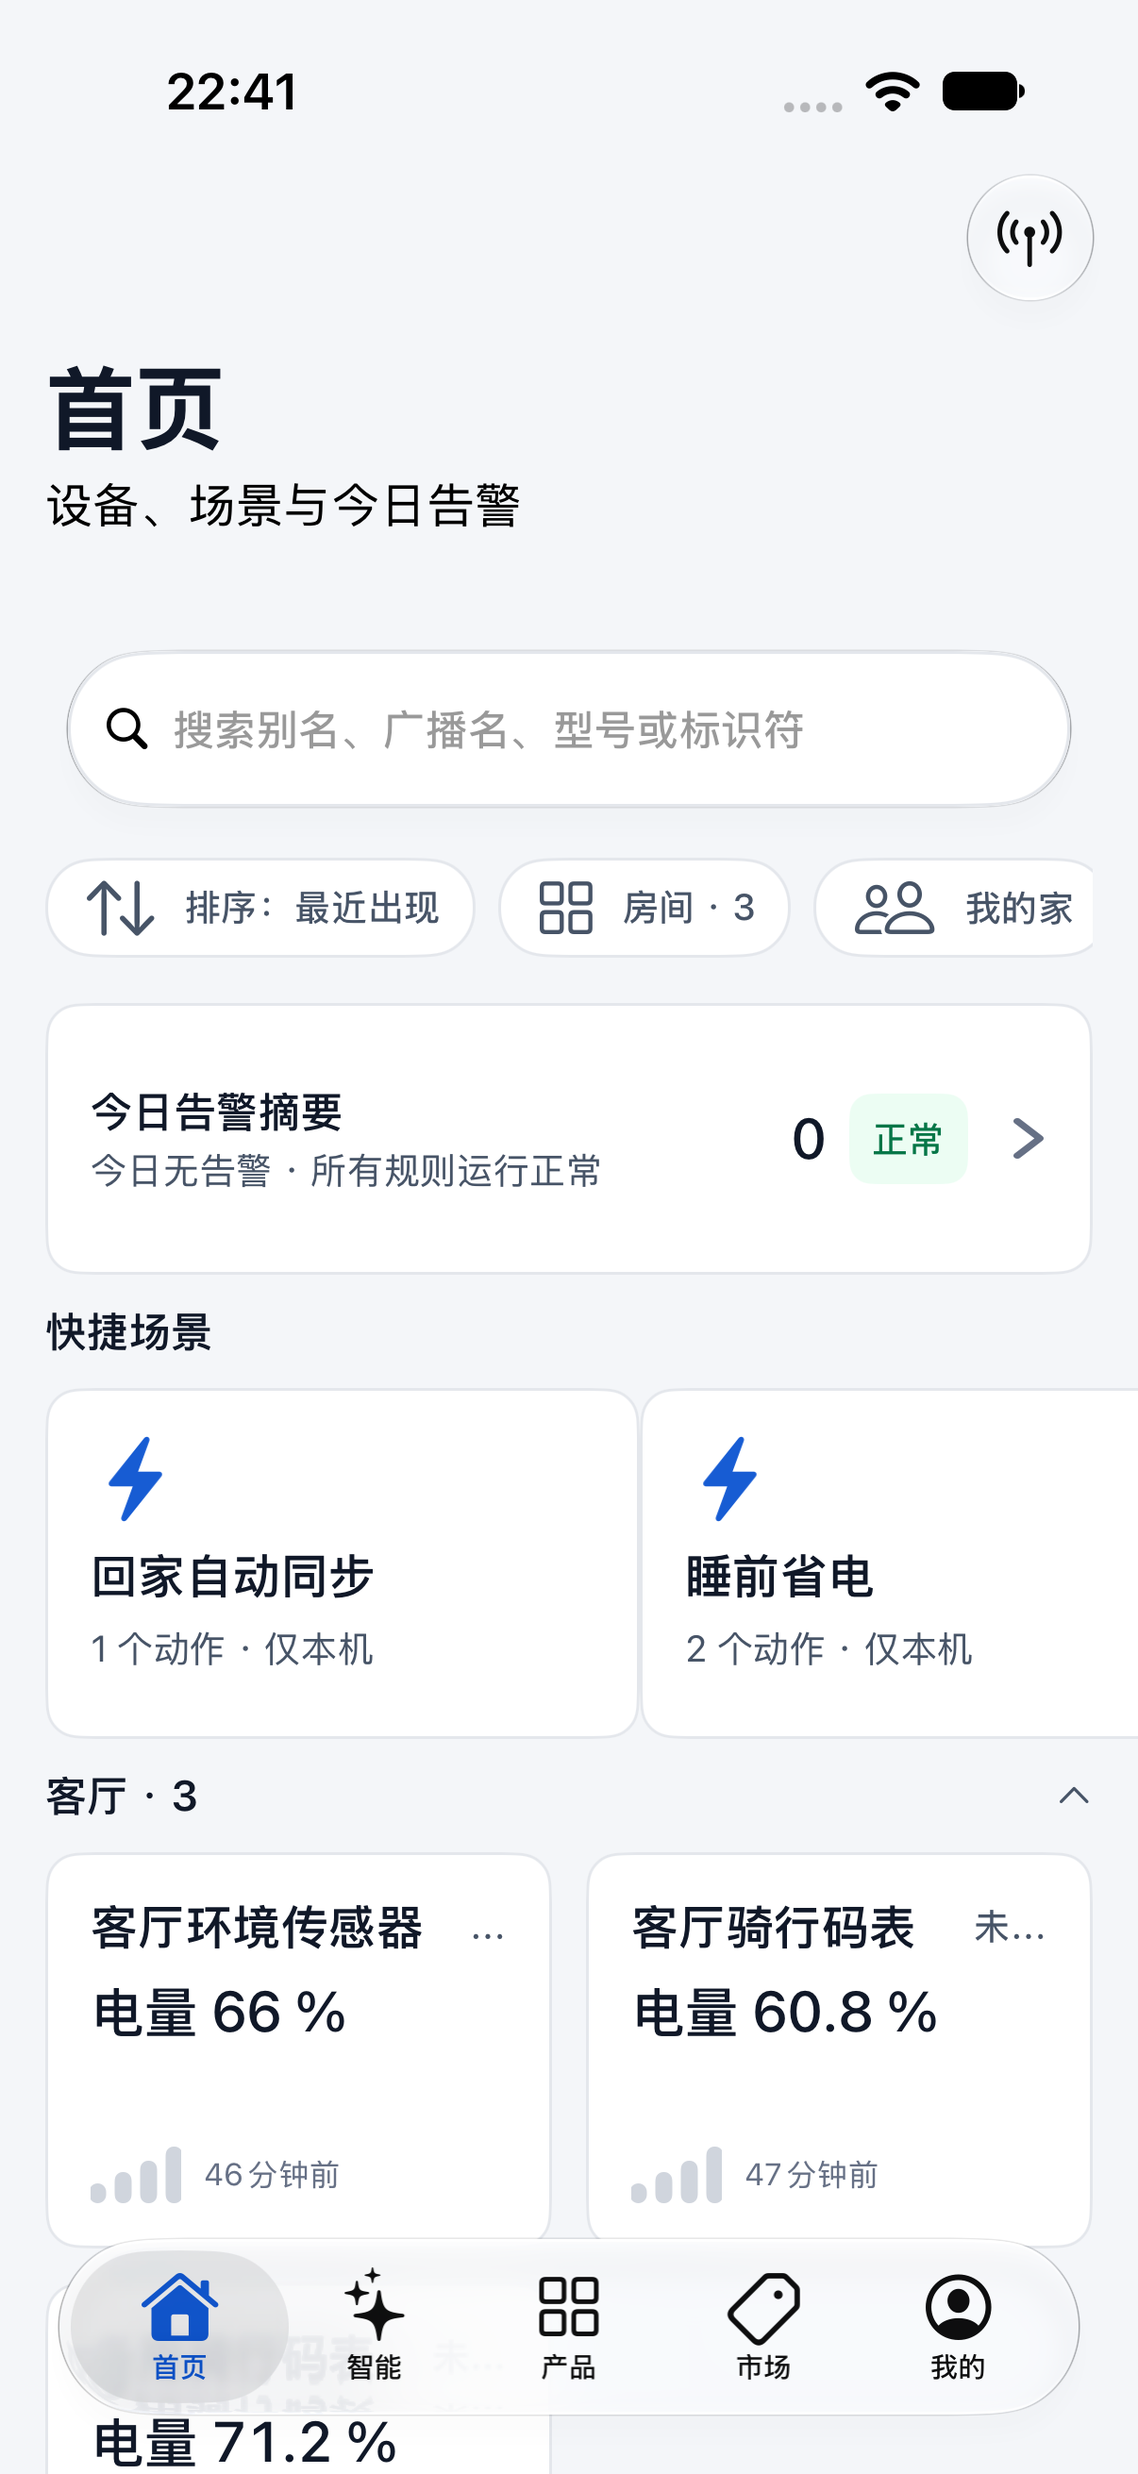
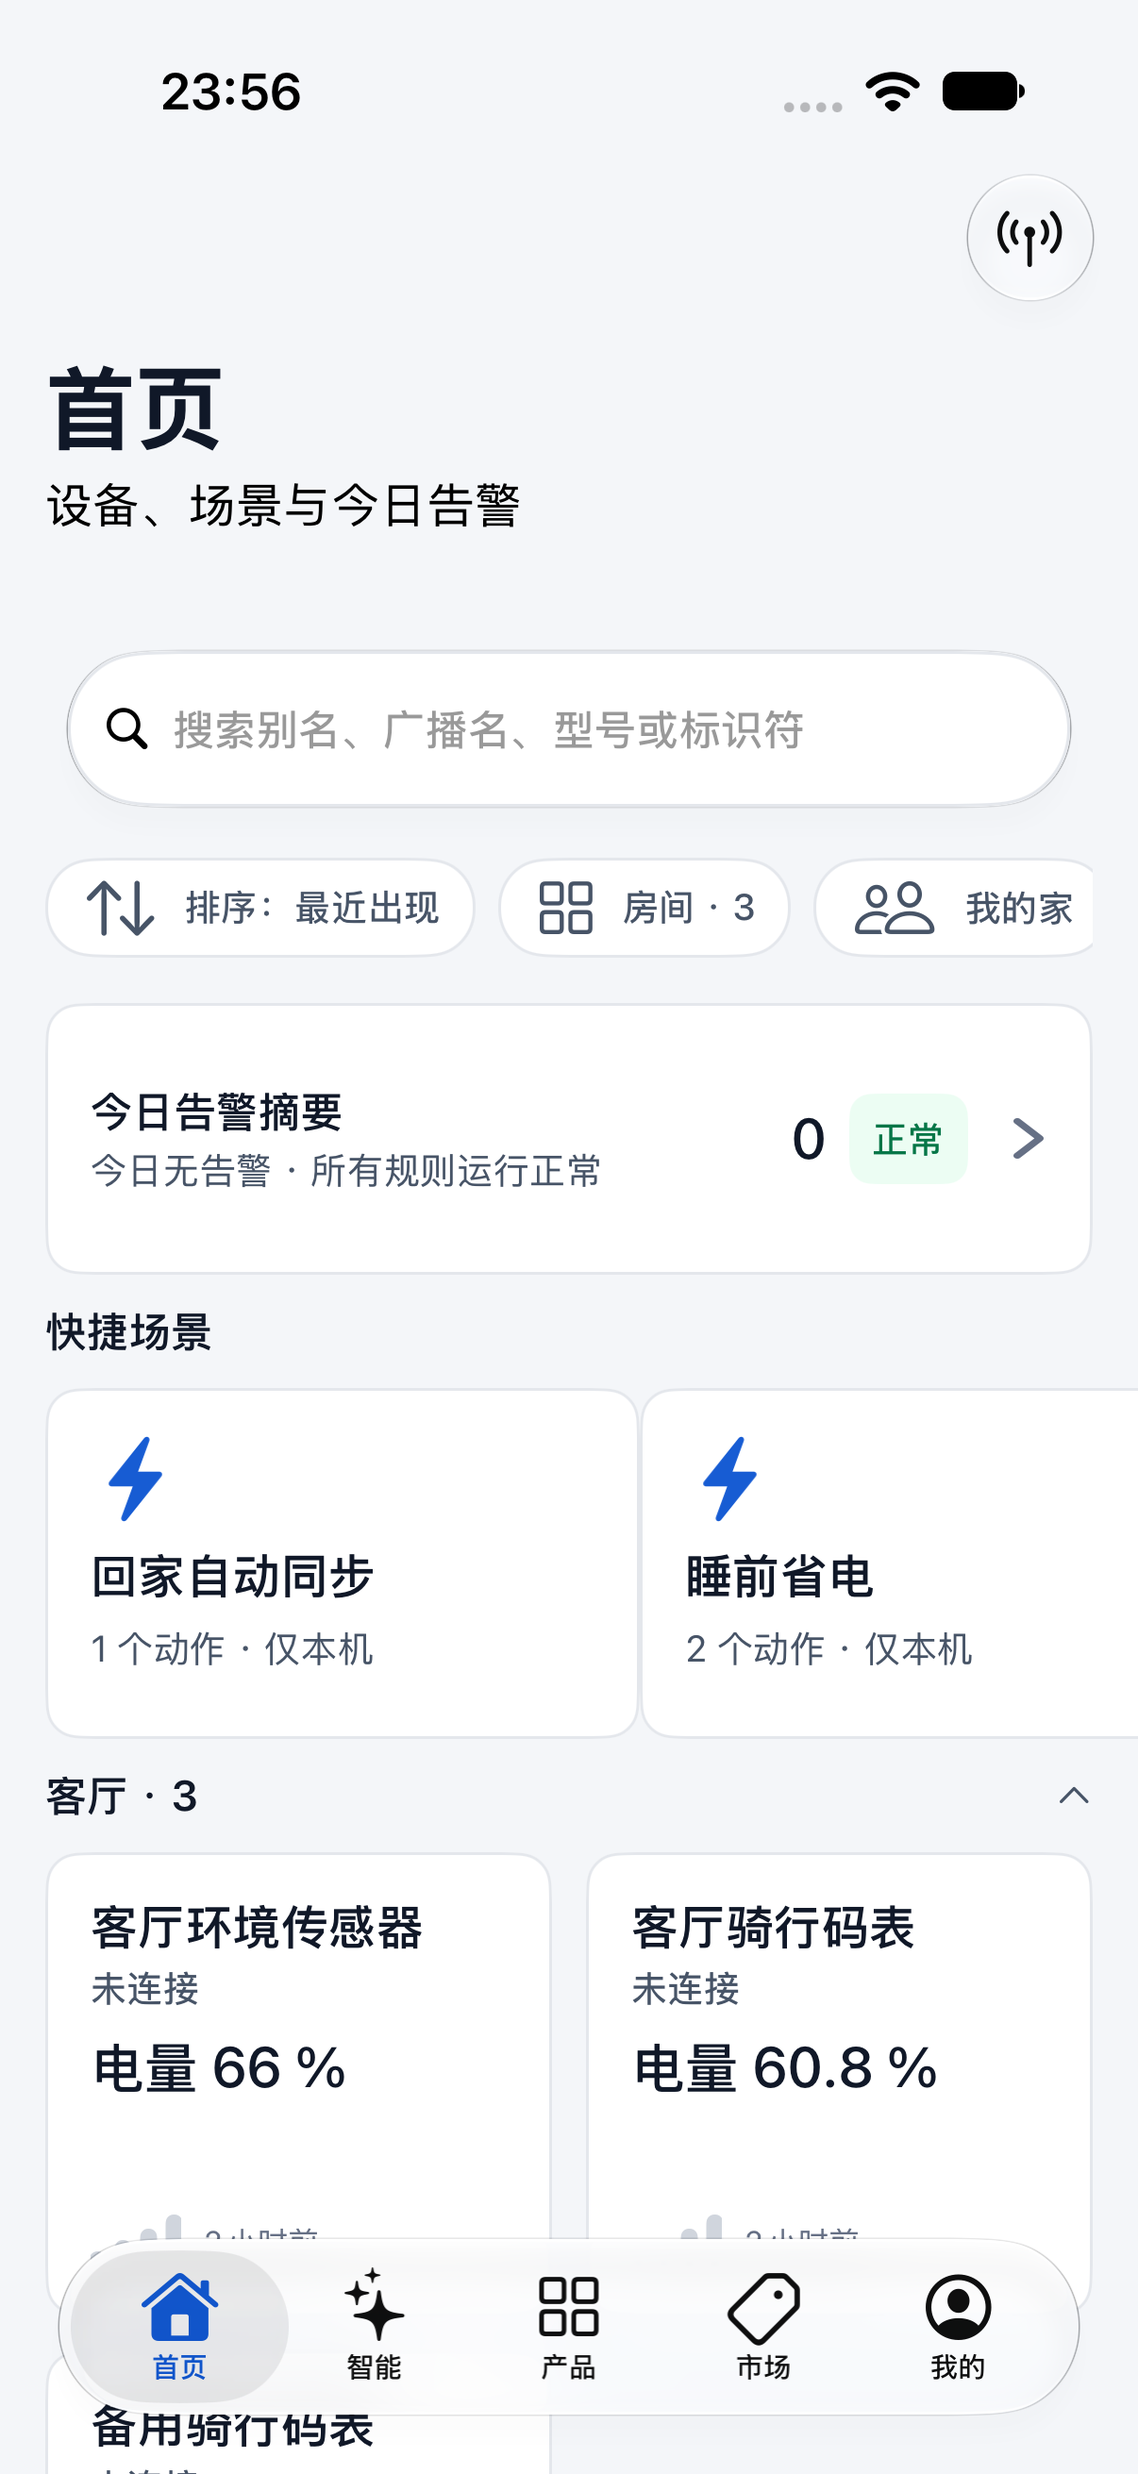
chore(release): v0.25.0 版本号、重截截图与文档
- MARKETING_VERSION 0.25.0 / CURRENT_PROJECT_VERSION 33
- 重截 home、households、households-bottom、rooms、home-ax，
  新增 home-bottom（滚到底时最后一项完整位于悬浮 Tab 之上）
- README 与 releasenotes 记录三处修复、426 单测与 seed 边界

diff --git a/README.md b/README.md
@@ -12,7 +12,7 @@
 
 | 项 | 结果 |
 | --- | --- |
-| 版本 | **v0.24.0**（`MARKETING_VERSION 0.24.0`，`CURRENT_PROJECT_VERSION 32`，tag `v0.24.0`：① 场景 `rejected` 终态对齐 Android —— 收到 `SCENE_*` 4xx 后落库拒绝码 / 可读原因 / `rejected_at`，终态不再自动重试，用户编辑字段才回 `pending`，429 的 `Retry-After` 落 `next_retry_at` 跨进程保留（迁移 v15，见 [docs/consistency.md](docs/consistency.md) 3.20）；② 首页筛选 chip 按固有宽度 + 内边距排布，常规字号横向滚动、AX 档竖排，不再出现半截字；③ 家庭成员显示「成员 N」而非原始用户 ID；④ 所有可滚动页面按悬浮 Tab 高度 + 安全区补底部 inset；⑤ 家庭管理与房间管理房间列表恢复一致；⑥ seed 读数改为 7 天 / 30 分钟一个点、按设备类型与型号差异化）。上一版 **v0.23.0**（`MARKETING_VERSION 0.23.0`，`CURRENT_PROJECT_VERSION 31`，tag `v0.23.0`：① e2e 项数稳定化 —— 定位到「本机 430 / CI 432」差异是导出轮询把 2 条断言写在循环内、按轮次动态生成，改为循环外累积布尔量后两边固定 430（详见 [docs/consistency.md](docs/consistency.md)）；② 归档 16 张模拟器真实截图到 [docs/screenshots](docs/screenshots)，数据为「模拟器 + 本机后端 + seed 数据」；③ 修场景指标名映射，服务端 `temperature_celsius` 等键不再原样显示）。上一版 v0.22.0：会话生命周期接通 —— 所有带 Bearer 的请求共用 401 → **单飞 `POST /auth/refresh`** → 原子替换 Keychain token → 重放原请求；刷新返回 401 才进入「需要重新登录」并保留本地设备 / 读数 / 家庭 / 场景，网络或 5xx 失败不清会话；「我的」新增登录会话管理（`GET /sessions` 标出当前会话、`DELETE /sessions/{id}` 单独吊销、`POST /auth/logout` 退出当前会话），退出登录与删除账号明确区分；映射 6 个 `SCENE_*` 错误码；4xx 一律终态、429 单独按 `Retry-After`；导出解析 `failureReason`；反馈详情 `GET /feedback/{id}` + 本人关闭 `PATCH /feedback/{id}`（409 明确文案）；单设备详情按平台路由（Android → `GET /my/devices/{mac}`）；契约对齐 `PJGoIoT` v0.22.0 / openapi 0.17.0） |
+| 版本 | **v0.25.0**（`MARKETING_VERSION 0.25.0`，`CURRENT_PROJECT_VERSION 33`，tag `v0.25.0`：① 家庭管理「家庭房间」分区不再把「房间」导航入口当成一行房间 —— 入口移到分区头右侧「管理」，分区行数只等于真实房间数，与房间管理页一致；② 首页底部留白抽成 `BottomOcclusion` 纯函数并补测，`viewSafeAreaInsetsDidChange` 重算，滚到底时最后一项完整位于悬浮 Tab 之上；③ 设备卡名称与状态拆成两行，名称最多两行按需省略，状态（未连接 / 已连接 / 离线）独占一行不被截断；顺带修掉分区头复用导致旧标题叠字的问题）。上一版 **v0.24.0**（`MARKETING_VERSION 0.24.0`，`CURRENT_PROJECT_VERSION 32`，tag `v0.24.0`：① 场景 `rejected` 终态对齐 Android —— 收到 `SCENE_*` 4xx 后落库拒绝码 / 可读原因 / `rejected_at`，终态不再自动重试，用户编辑字段才回 `pending`，429 的 `Retry-After` 落 `next_retry_at` 跨进程保留（迁移 v15，见 [docs/consistency.md](docs/consistency.md) 3.20）；② 首页筛选 chip 按固有宽度 + 内边距排布，常规字号横向滚动、AX 档竖排，不再出现半截字；③ 家庭成员显示「成员 N」而非原始用户 ID；④ 所有可滚动页面按悬浮 Tab 高度 + 安全区补底部 inset；⑤ 家庭管理与房间管理房间列表恢复一致；⑥ seed 读数改为 7 天 / 30 分钟一个点、按设备类型与型号差异化）。上一版 **v0.23.0**（`MARKETING_VERSION 0.23.0`，`CURRENT_PROJECT_VERSION 31`，tag `v0.23.0`：① e2e 项数稳定化 —— 定位到「本机 430 / CI 432」差异是导出轮询把 2 条断言写在循环内、按轮次动态生成，改为循环外累积布尔量后两边固定 430（详见 [docs/consistency.md](docs/consistency.md)）；② 归档 16 张模拟器真实截图到 [docs/screenshots](docs/screenshots)，数据为「模拟器 + 本机后端 + seed 数据」；③ 修场景指标名映射，服务端 `temperature_celsius` 等键不再原样显示）。上一版 v0.22.0：会话生命周期接通 —— 所有带 Bearer 的请求共用 401 → **单飞 `POST /auth/refresh`** → 原子替换 Keychain token → 重放原请求；刷新返回 401 才进入「需要重新登录」并保留本地设备 / 读数 / 家庭 / 场景，网络或 5xx 失败不清会话；「我的」新增登录会话管理（`GET /sessions` 标出当前会话、`DELETE /sessions/{id}` 单独吊销、`POST /auth/logout` 退出当前会话），退出登录与删除账号明确区分；映射 6 个 `SCENE_*` 错误码；4xx 一律终态、429 单独按 `Retry-After`；导出解析 `failureReason`；反馈详情 `GET /feedback/{id}` + 本人关闭 `PATCH /feedback/{id}`（409 明确文案）；单设备详情按平台路由（Android → `GET /my/devices/{mac}`）；契约对齐 `PJGoIoT` v0.22.0 / openapi 0.17.0） |
 | 五模块（首页 / 智能 / 产品 / 市场 / 我的） | 已实现，纯代码 UIKit，真实数据路径；设备管理并入首页，规则与场景集中在「智能」 |
 | CoreBluetooth 扫描 + 连接 | 已实现（`CBCentralManager`，真实 RSSI） |
 | BLE 读数采集 | 已实现：连接后订阅心率 `0x2A37`、电量 `0x2A19`、温度 `0x2A6E`、Nordic UART TX `6E400003-…`；各特征独立解析器，失败静默丢弃并写本地日志 |
@@ -27,7 +27,7 @@
 | 同步 | **已实现**：匿名登录、增量拉取、批量推送（设备 ≤100/批 + 读数 ≤200/批、幂等键含读数）、冲突提示、tombstone、Keychain token、前后台 / BGTask 触发、断网累积补传；后台唤醒仅做受限推送（不拉增量、不建号、≥15 分钟间隔）；**410 `RESYNC_REQUIRED` 自动全量重同步（pending 不丢）**，503 `TIMEOUT` 指数退避 |
 | 自绘 RSSI + 自绘折线图 + 代码组装空状态 | 已实现（读数图表纯 `draw(_:)`，无第三方图表库） |
 | 首启引导 | **已实现**：3 步（蓝牙 / 通知 / 后台采集），仅首次或未走完时出现，可跳过；步骤与完成标记持久化到 `UserDefaults` |
-| 单元测试 | **421 个用例，0 失败**（`** TEST SUCCEEDED **`，2026-11-06，Xcode 27.2 / iPhone 18 Pro · iOS 27.2 模拟器；v0.24.0 新增 5 个用例：拒绝后不重试、重启后仍不重试、编辑字段后回 pending、429 `Retry-After` 跨重启保留、`scenarios` INSERT 列顺序回归，既有 416 个全部保持） |
+| 单元测试 | **426 个用例，0 失败**（`** TEST SUCCEEDED **`，2026-11-06，Xcode 27.2 / iPhone 18 Pro · iOS 27.2 模拟器；v0.25.0 新增 5 个用例：设备卡长名称下状态完整可见、分区头复用时旧标题被替换、悬浮 Tab 留白扣除自动 inset、房间分区只统计真实房间、分区头「管理」入口可触发，既有 421 个全部保持） |
 | 模拟器构建 | **通过**（`xcodebuild ... build`，`** BUILD SUCCEEDED **`） |
 | CI | **GitHub Actions 已实际运行 success**：v0.24.0 tag run [42237163018](https://github.com/platojobs/codemagic/actions/runs/42237163018)（success，提交 `79ea023`，ref `v0.24.0`），并行 `Build & Test`（**421 单测**，`Executed 421 tests, with 0 failures` / `** TEST SUCCEEDED **`）与 `E2E contract`（**430 项，0 SKIP，0 失败**，PJGoIoT 固定在 v0.22.0；本机同套件同为 430 项）；同 sha 的 `main` run [42237126155](https://github.com/platojobs/codemagic/actions/runs/42237126155) 先被 tag 运行的 `concurrency: ios-${sha}` 取消（属预期），待 tag run 结束后 `gh run rerun`，现为 **success**（同为 421 单测 / 430 项 E2E）；上一基线 v0.23.0 tag run [42221403125](https://github.com/platojobs/codemagic/actions/runs/42221403125)（416 单测 / 430 项 E2E）；`codemagic.yaml` 作为可选替代保留但未验证 |
 | 真机 BLE / 签名 | **未验证**：本机无真机与 Apple 开发者账号；读数采集与图表需真机 / 可穿戴设备验证（见第 9 节） |
@@ -40,14 +40,15 @@
 
 | 页面 | 截图 | 内容 |
 | --- | --- | --- |
-| 首页 | [home.png](docs/screenshots/home.png) | 筛选 chip 完整文案（排序 / 房间 · 3 / 我的家）、房间分段（客厅 · 3）、设备卡片含差异化电量读数、快捷场景 |
+| 首页 | [home.png](docs/screenshots/home.png) | 筛选 chip 完整文案（排序 / 房间 · 3 / 我的家）、房间分段（客厅 · 3）、设备卡名称与状态分两行（未连接完整可见）、差异化电量读数、快捷场景 |
+| 首页 · 底部 | [home-bottom.png](docs/screenshots/home-bottom.png) | 滚到底：书房两张设备卡与分区头完整位于悬浮 Tab 之上，Tab 下方无卡片残片 |
 | 智能 · 场景列表 | [scenes.png](docs/screenshots/scenes.png) | 4 个云端场景（含 1 个「设备已移除」、1 个「已拒绝」并附拒绝原因）与 3 个本机场景 |
 | 智能 · 场景详情 | [scene-detail.png](docs/screenshots/scene-detail.png) | 工作日早晨开窗提醒（定时 07:30、周一至周五、通知动作） |
 | 产品 · 列表 | [products.png](docs/screenshots/products.png) | 服务端目录的 5 类设备 |
 | 产品 · 详情 | [product-detail.png](docs/screenshots/product-detail.png) | 单个类型的功能与指标说明 |
 | 市场 | [market.png](docs/screenshots/market.png) | 服务端下发的商品与固件条目 |
 | 我的 | [profile.png](docs/screenshots/profile.png) | 同步状态、家庭入口、会话、账号与数据、外观与设置 |
-| 家庭管理 | [households.png](docs/screenshots/households.png) | 当前家庭「我的家」：6 台设备 / 3 个房间；成员显示「成员 1 · 所有者 · 我」 |
+| 家庭管理 | [households.png](docs/screenshots/households.png) | 当前家庭「我的家」：6 台设备 / 3 个房间；成员显示「成员 1 · 所有者 · 我」；房间分区头右侧为「管理」入口，列表只有真实房间 |
 | 家庭管理 · 底部 | [households-bottom.png](docs/screenshots/households-bottom.png) | 滚到底：房间列表（客厅 / 主卧 / 书房）与说明文字完整位于悬浮 Tab 之上 |
 | 家庭切换 | [households-list.png](docs/screenshots/households-list.png) | 3 个家庭（我的家 / 湖畔小筑 / 爸妈家） |
 | 房间管理 | [rooms.png](docs/screenshots/rooms.png) | 当前家庭「我的家」的 3 个房间（客厅 / 主卧 / 书房），与家庭管理页一致 |
@@ -63,7 +64,8 @@ seed 的边界（如实记录）：
 - 后端设备类型目录只有 **5 种** `deviceType`，因此 12 台设备覆盖这 5 类（不是 12 种不同型号）；电量 / 温度 / 湿度 / 心率按设备类型与编号分别生成，不再出现两台不同型号设备读数完全相同。
 - 「1 个 `rejected` 场景」由 seed 直接写入一条 `kind='automation'`、`sync_state='pending'`、引用已不存在设备的场景，App 启动同步时被服务端以 `SCENE_DEVICE_NOT_FOUND` 拒绝，落库后显示「已拒绝」+ 原因；不是伪造的本地状态。
 - 「2 台离线」用较旧的 `lastSeenAt` 表达；iOS 首页对远程设备统一显示「未连接」，没有独立的在线/离线状态。
-- AX 最大字号下首页筛选 chip 与场景徽章已改为上下排，不再出现半截字；但「今日告警摘要」等固定高度卡片里的长文案仍会被裁切，属于既有布局限制。
+- 首页底部留白实测：滚到底时最后一张设备卡 `maxY = 759`，悬浮 Tab 顶边 `791`，两者相隔 32pt（24pt 留白 + 8pt 分区内边距），Tab 下方没有任何卡片残片（见 `home-bottom.png`）。`home.png` 截于页面顶部，iOS 26 的悬浮玻璃 Tab 会把中段内容透出来，属于系统 Tab 样式，不是 inset 失效。
+- AX 最大字号下首页筛选 chip 与场景徽章已改为上下排，不再出现半截字；但「今日告警摘要」等固定高度卡片里的长文案仍会被裁切（`home-ax.png` 可见），属于既有布局限制。设备卡在 AX 字号下仍是固定高度，本轮只保证常规字号下名称与状态完整，AX 档未验证。
 
 ---
 

diff --git a/docs/releasenotes.md b/docs/releasenotes.md
@@ -4,6 +4,7 @@
 
 | Tag | MARKETING_VERSION | Build | 日期 | 对齐后端 |
 | --- | --- | --- | --- | --- |
+| `v0.25.0` | 0.25.0 | 33 | 2026-11-06 | PJGoIoT v0.22.0（无后端契约变更；家庭房间分区去掉「房间」导航行、首页底部留白与设备卡名称/状态分行） |
 | `v0.24.0` | 0.24.0 | 32 | 2026-11-06 | PJGoIoT v0.22.0（无后端契约变更；场景 `rejected` 终态对齐 Android、429 退避持久化、首页 chip 与 AX 布局、成员可读名、底部 inset、房间列表一致性、seed 读数差异化） |
 | `v0.23.0` | 0.23.0 | 31 | 2026-11-06 | PJGoIoT v0.22.0（无后端契约变更；e2e 断言项数稳定化 430 ↔ 430、真实界面截图归档、场景指标名映射） |
 | `v0.22.0` | 0.22.0 | 30 | 2026-11-06 | PJGoIoT v0.22.0（openapi 0.17.0；`/auth/refresh`·`/auth/logout`·`/sessions`·`SCENE_*` 错误码·导出失败原因·反馈详情/关闭·`GET /my/devices/{mac}`） |
@@ -35,6 +36,18 @@
 | `v0.3.0` | 0.3.0 | 4 | 2026-11-05 | 0.3.0 |
 | `v0.2.0` | 0.2.0 | 3 | 2026-11-05 | 0.2.0 |
 | `v0.1.0` | — | 1 | 2026-11-05 | — |
+
+---
+
+## v0.25.0（build 33）
+
+**主题：修看图发现的三处 UI 问题 —— 房间列表多出的导航行、首页底部留白、设备卡名称与状态截断**
+
+- **家庭房间列表多出的「房间」行**：那不是空名房间，而是「前往房间管理」的导航入口（`room.manage` = 「房间」），一直占房间分区的第 0 行，所以家庭管理显示 4 行、房间管理只有 3 个房间。v0.25.0 把入口移到分区头右侧的「管理」按钮，房间分区行数只等于真实房间数（`HouseholdRoomSection.rowCount`），两页项数 / 名称完全一致。分区头用 `UIButton.Configuration` + `AppText.caption`，满足 44pt 触达。
+- **首页底部留白**：`applyBottomOcclusionInset` 实际已在 `viewDidLayoutSubviews` 调用，且没有被其他 `contentInset` 赋值覆盖。用可访问性树实测：滚到底时最后一张设备卡 `maxY = 759`、悬浮 Tab 顶边 `791`，相隔 32pt，Tab 下方没有残片。`home.png` 的「露出」是截图停在页面顶部时，iOS 26 悬浮玻璃 Tab 把中段内容透出来，属系统样式。仍然做了两处加固：把计算抽成纯函数 `BottomOcclusion.inset(overlap:automaticInset:spacing:)` 并补单测；首页增加 `viewSafeAreaInsetsDidChange` 重算，避免 Tab 晚挂载时沿用初始值。新增 `home-bottom.png` 作为滚到底的证据。
+- **设备卡名称 / 状态截断**：原来名称与状态在同一个横向 `UIStackView` 里，长名称把状态挤成「未…」。改为纵向两行：名称最多两行、超长才省略；状态独占一行、`textAlignment = .natural`，不参与名称截断。卡片高度从 140 调到 164，给两行名称留足空间。
+- **顺带修复**：`HomeSectionHeaderView` 复用时只移除了初始头视图，替换后的头视图没被记录下来，导致旧标题叠在新标题下面（滚到底时「书房 · 2」上方还有一层「快捷场景」）。改为用 `header` 可变引用记录当前头视图。
+- **测试**：单测 **426 个，0 失败**（新增 5 个：设备卡长名称下状态完整、分区头复用只保留一个、`BottomOcclusion` 扣除自动 inset、房间分区行数、分区头「管理」入口可触发）；e2e 本机 **430 项，0 失败**，与 CI 一致；重截 `home`、`home-bottom`（新增）、`households`、`households-bottom`、`rooms`、`home-ax`。
 
 ---
 
